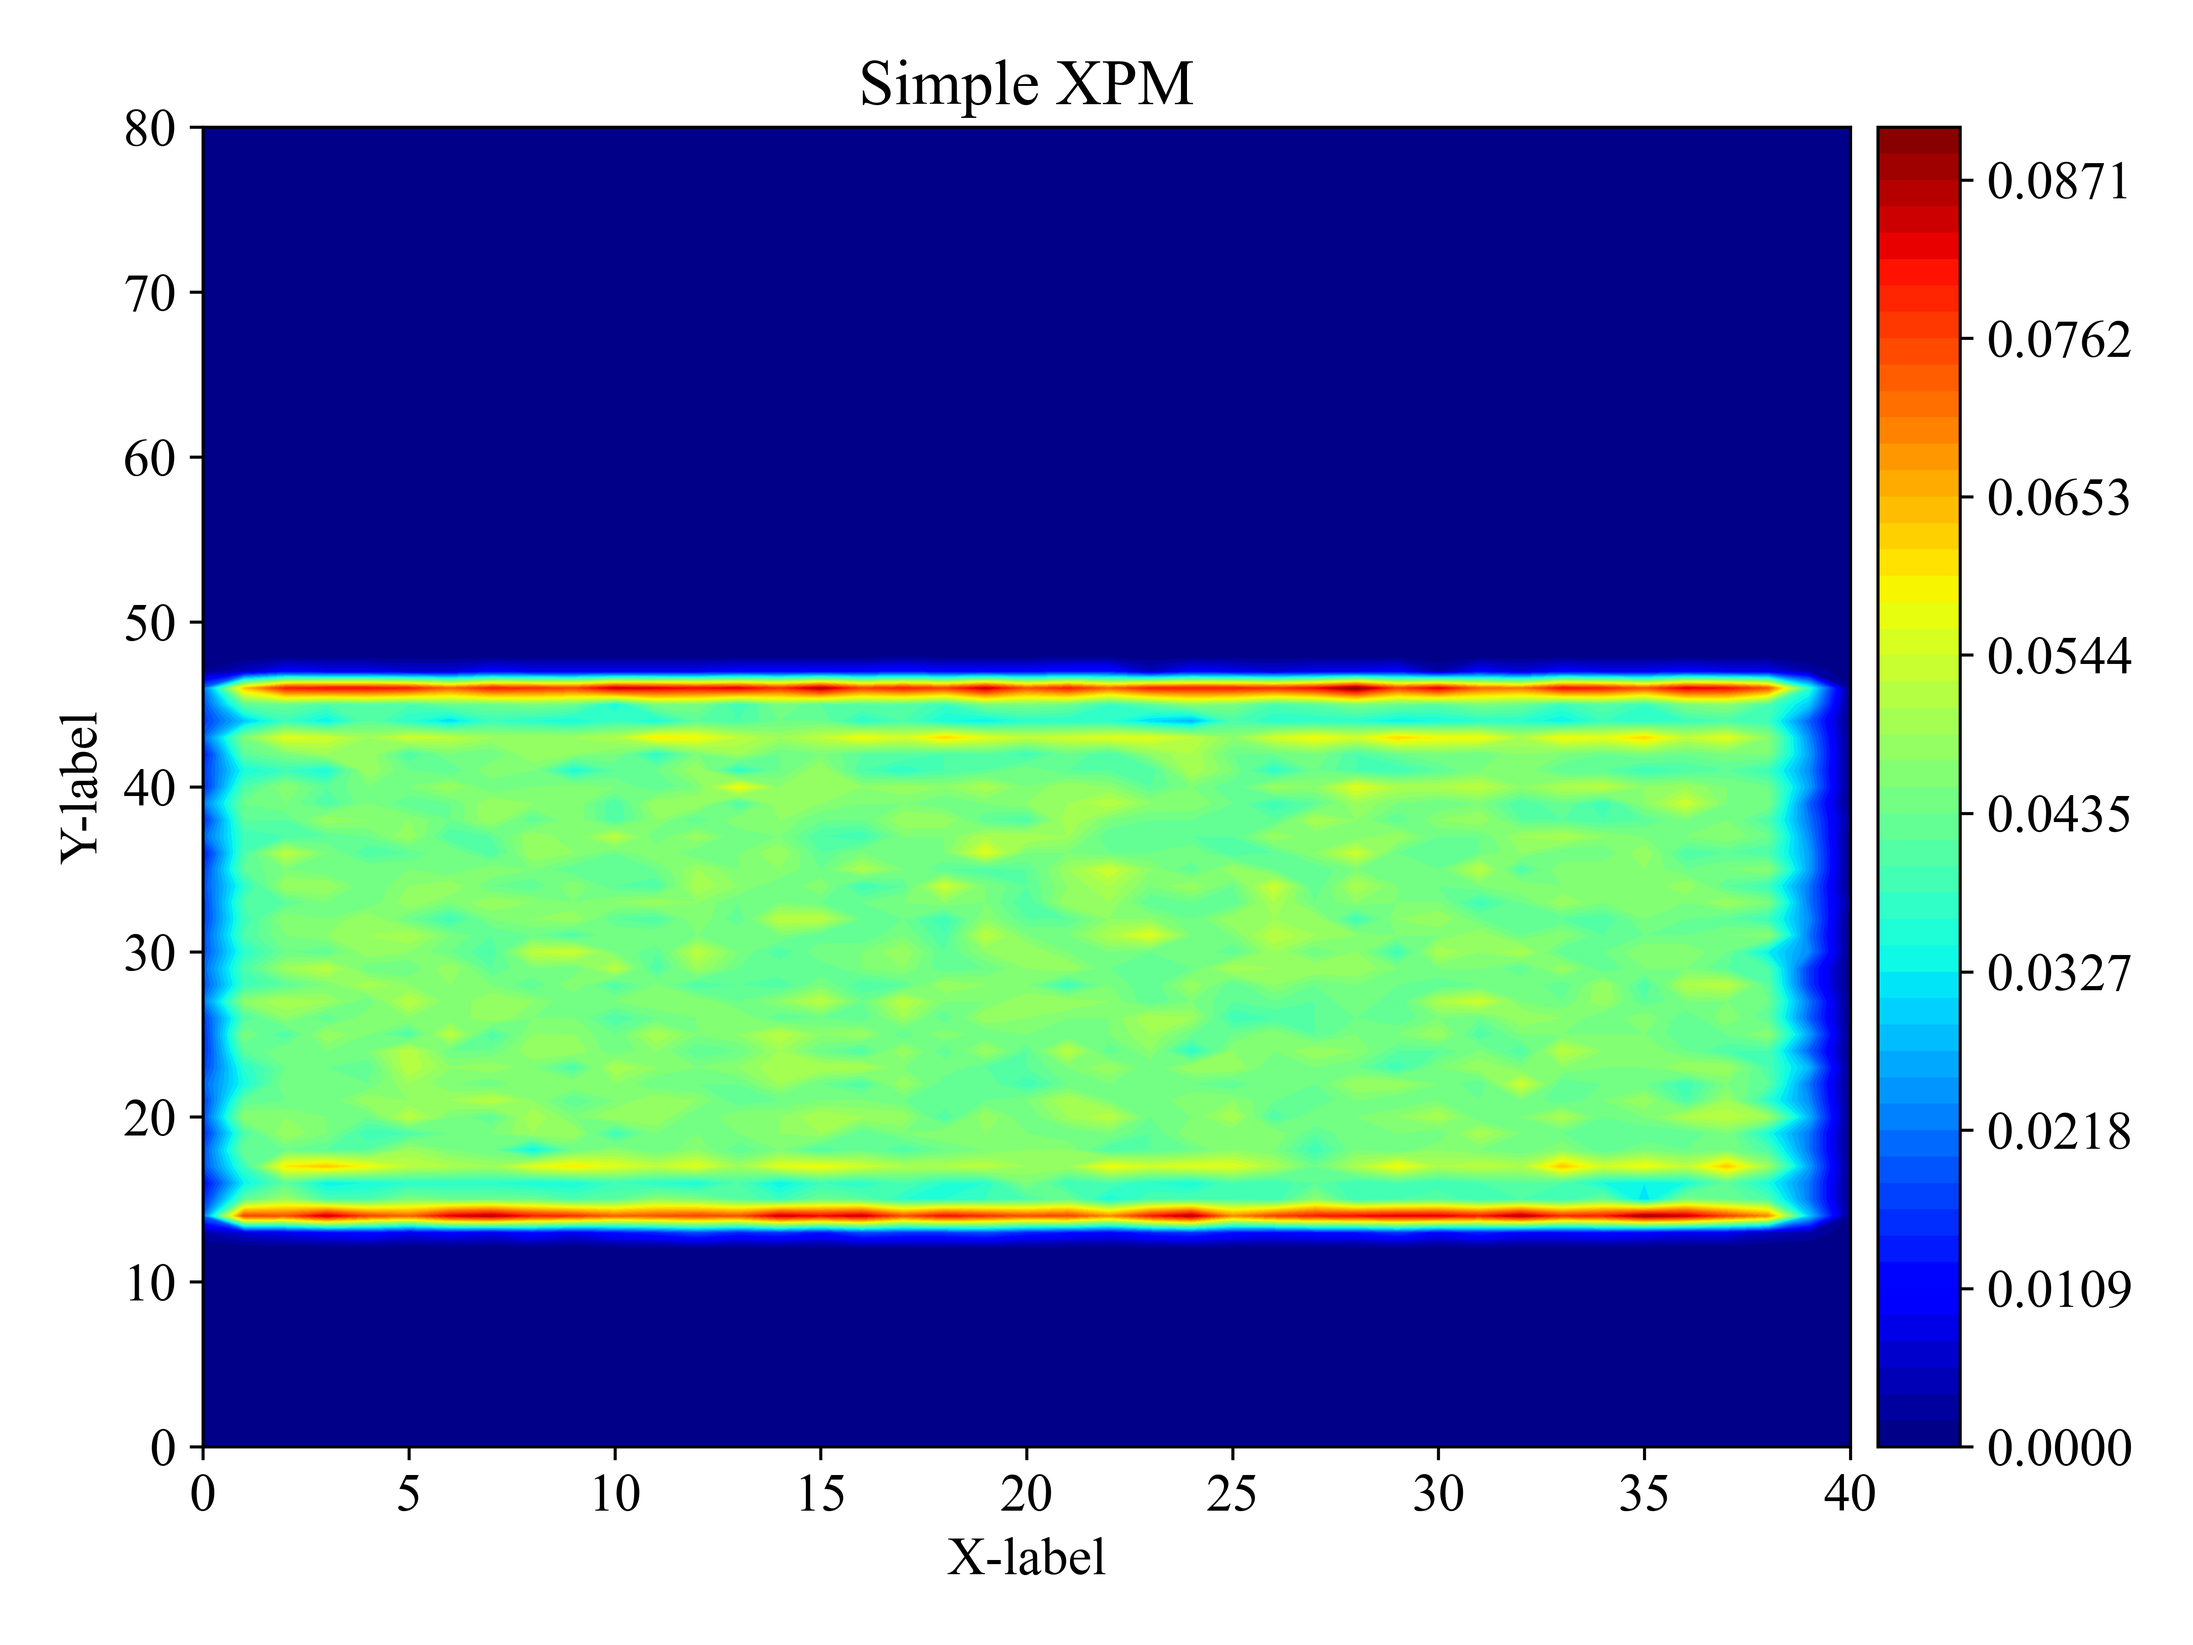
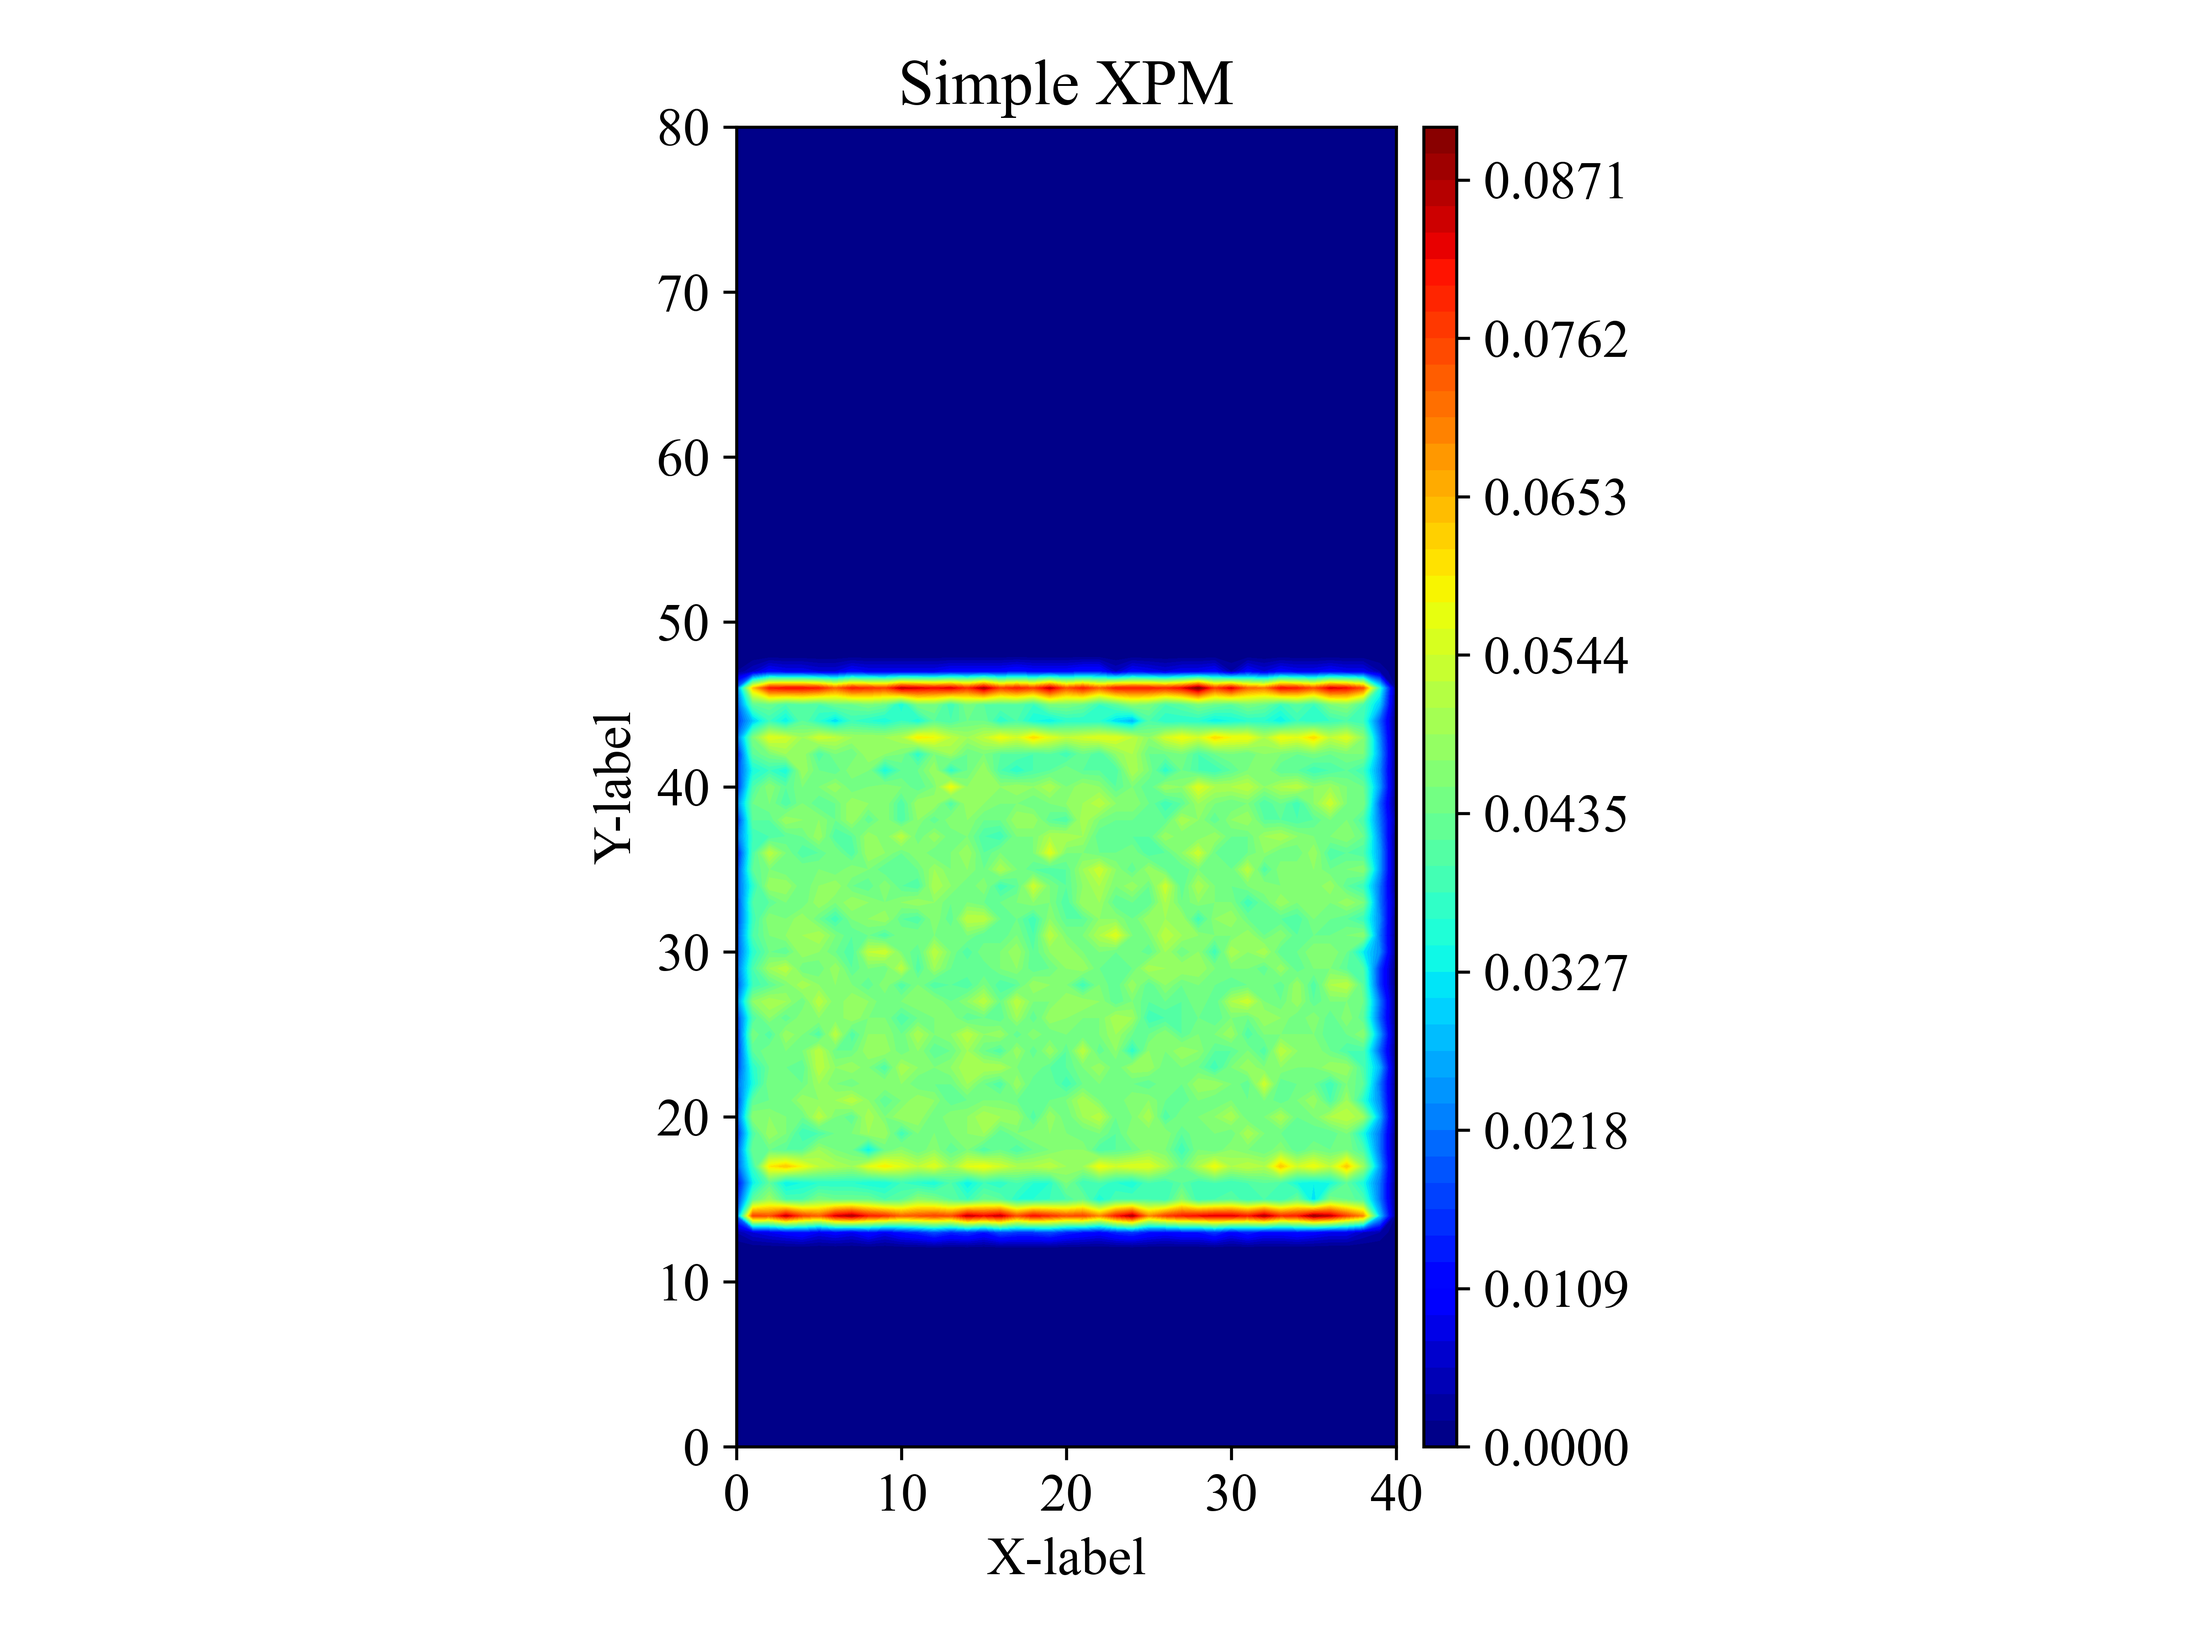
update doc

diff --git a/docs/source/gplt.md b/docs/source/gplt.md
@@ -174,7 +174,7 @@ This command will generate a `densmap.xpm` file, then you can plot it.
     x and y of grid point must be integer.
 
     ```
-    gplt -f xyz.dat && gplt -f xyz.xpm
+    gplt -f xyz.dat && gplt -f xyz.xpm -aspect equal
     ```
 
     <img src="./_static/xyz.png"   alt="xyz" width="400"/>
